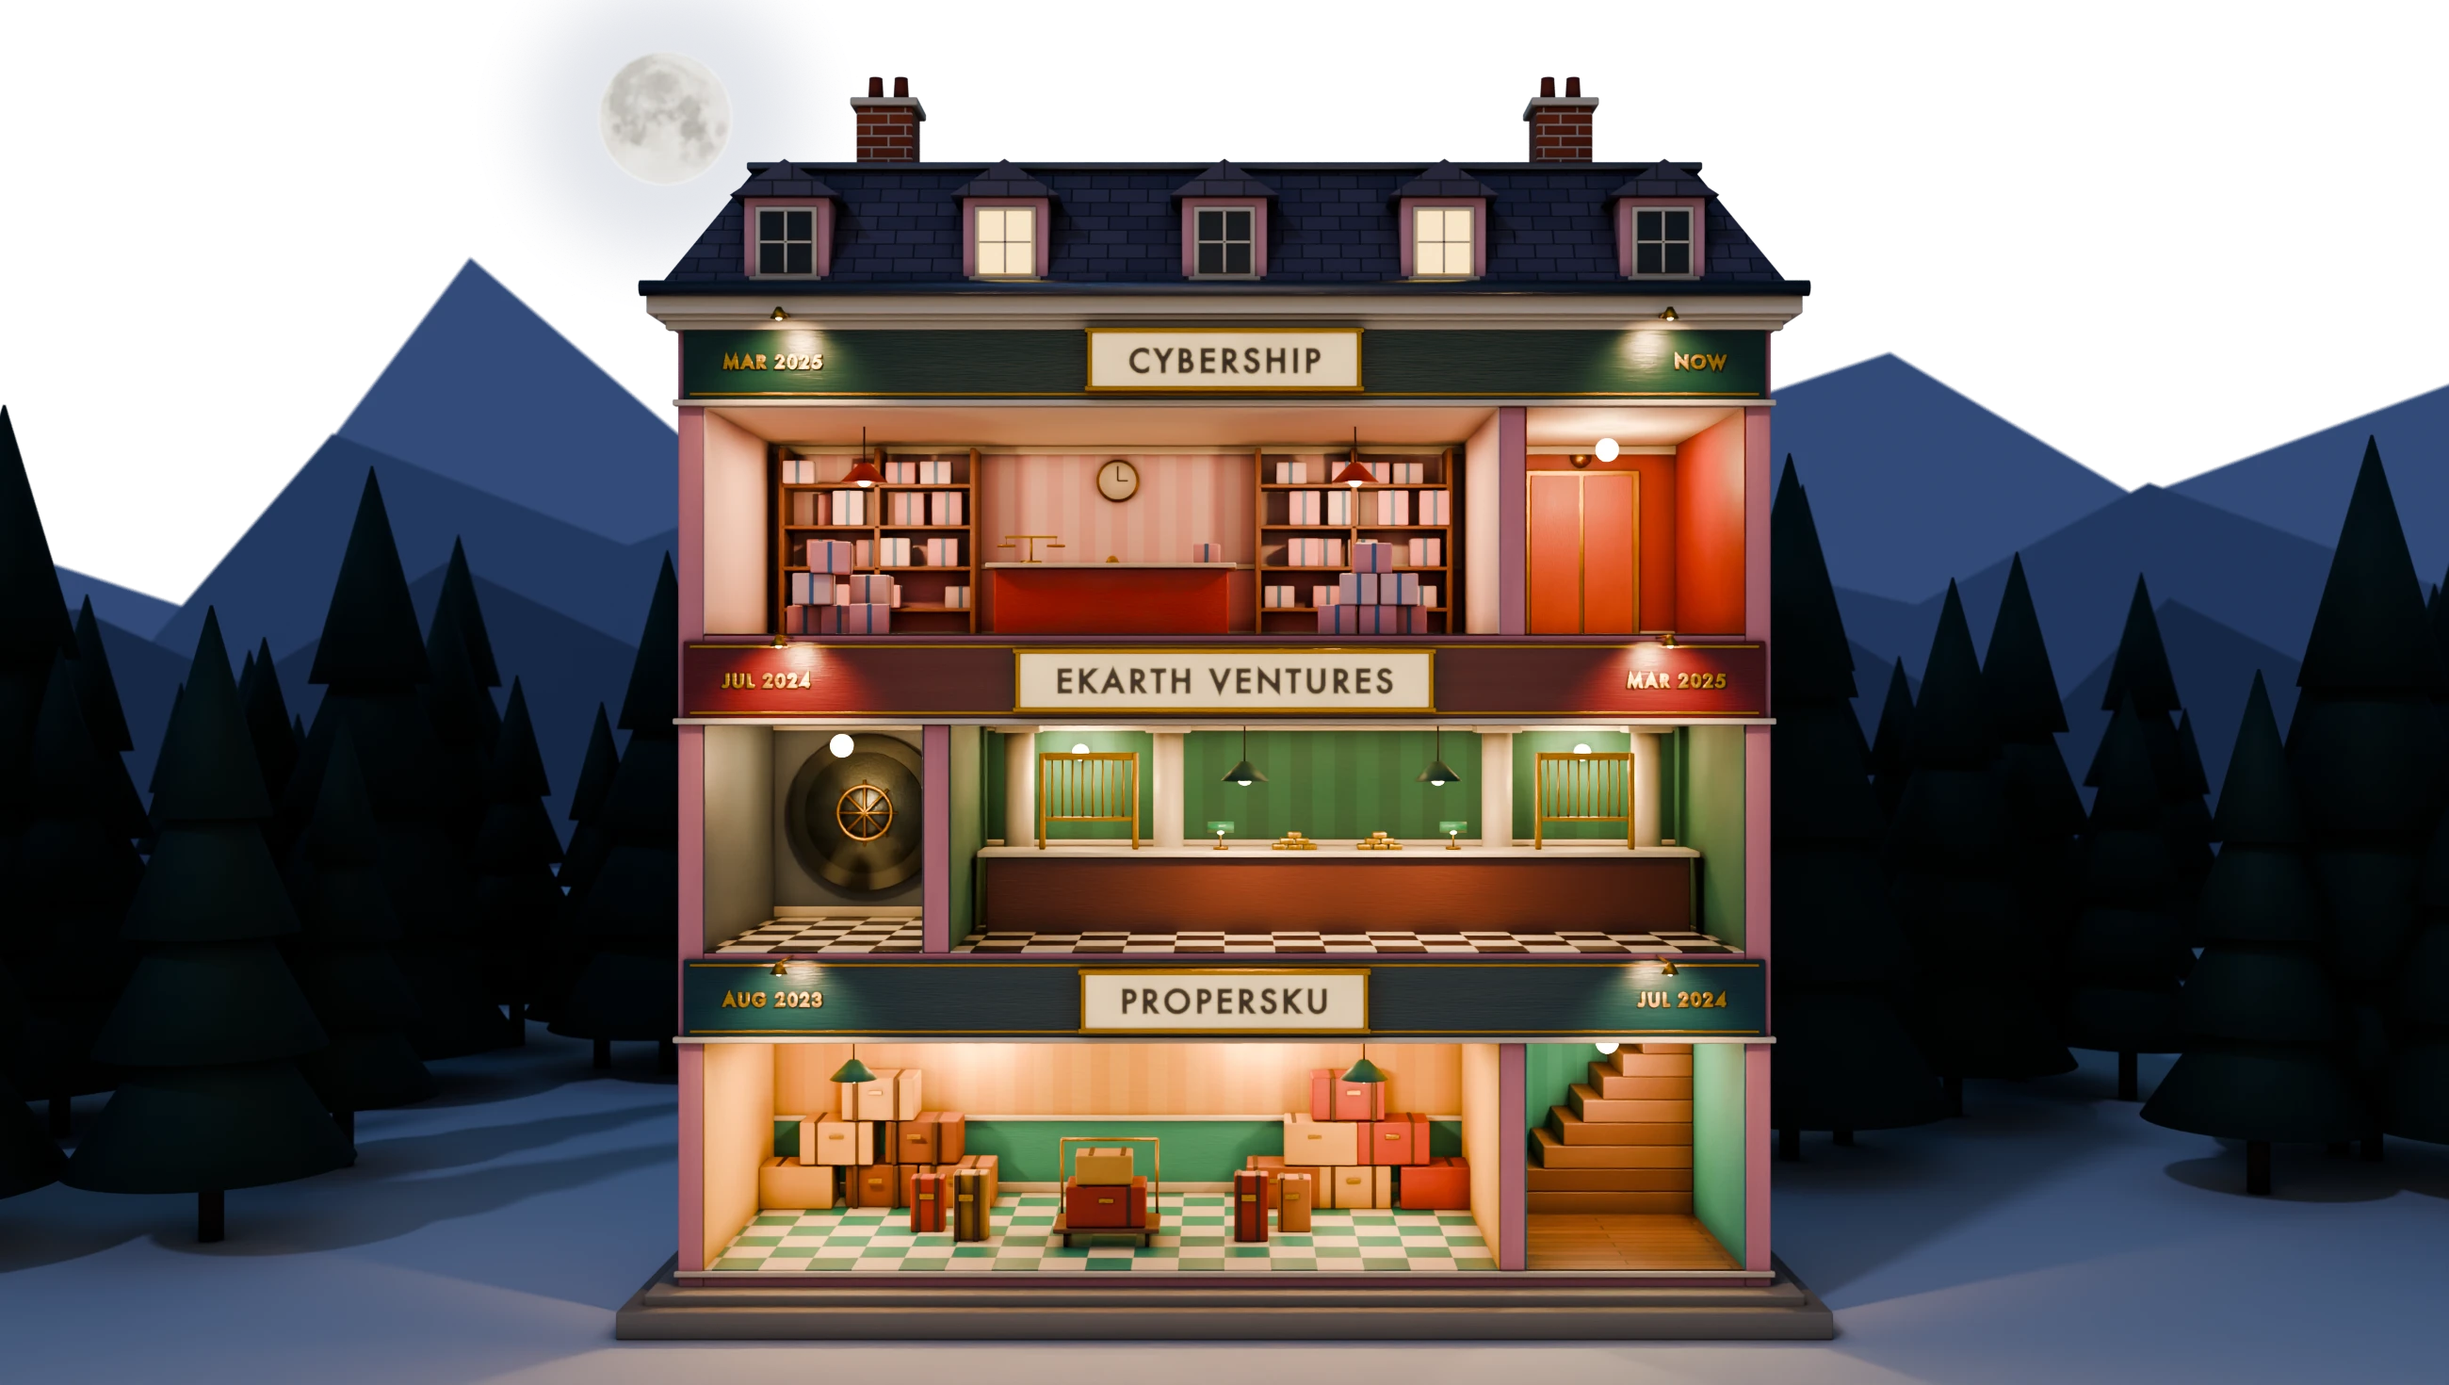
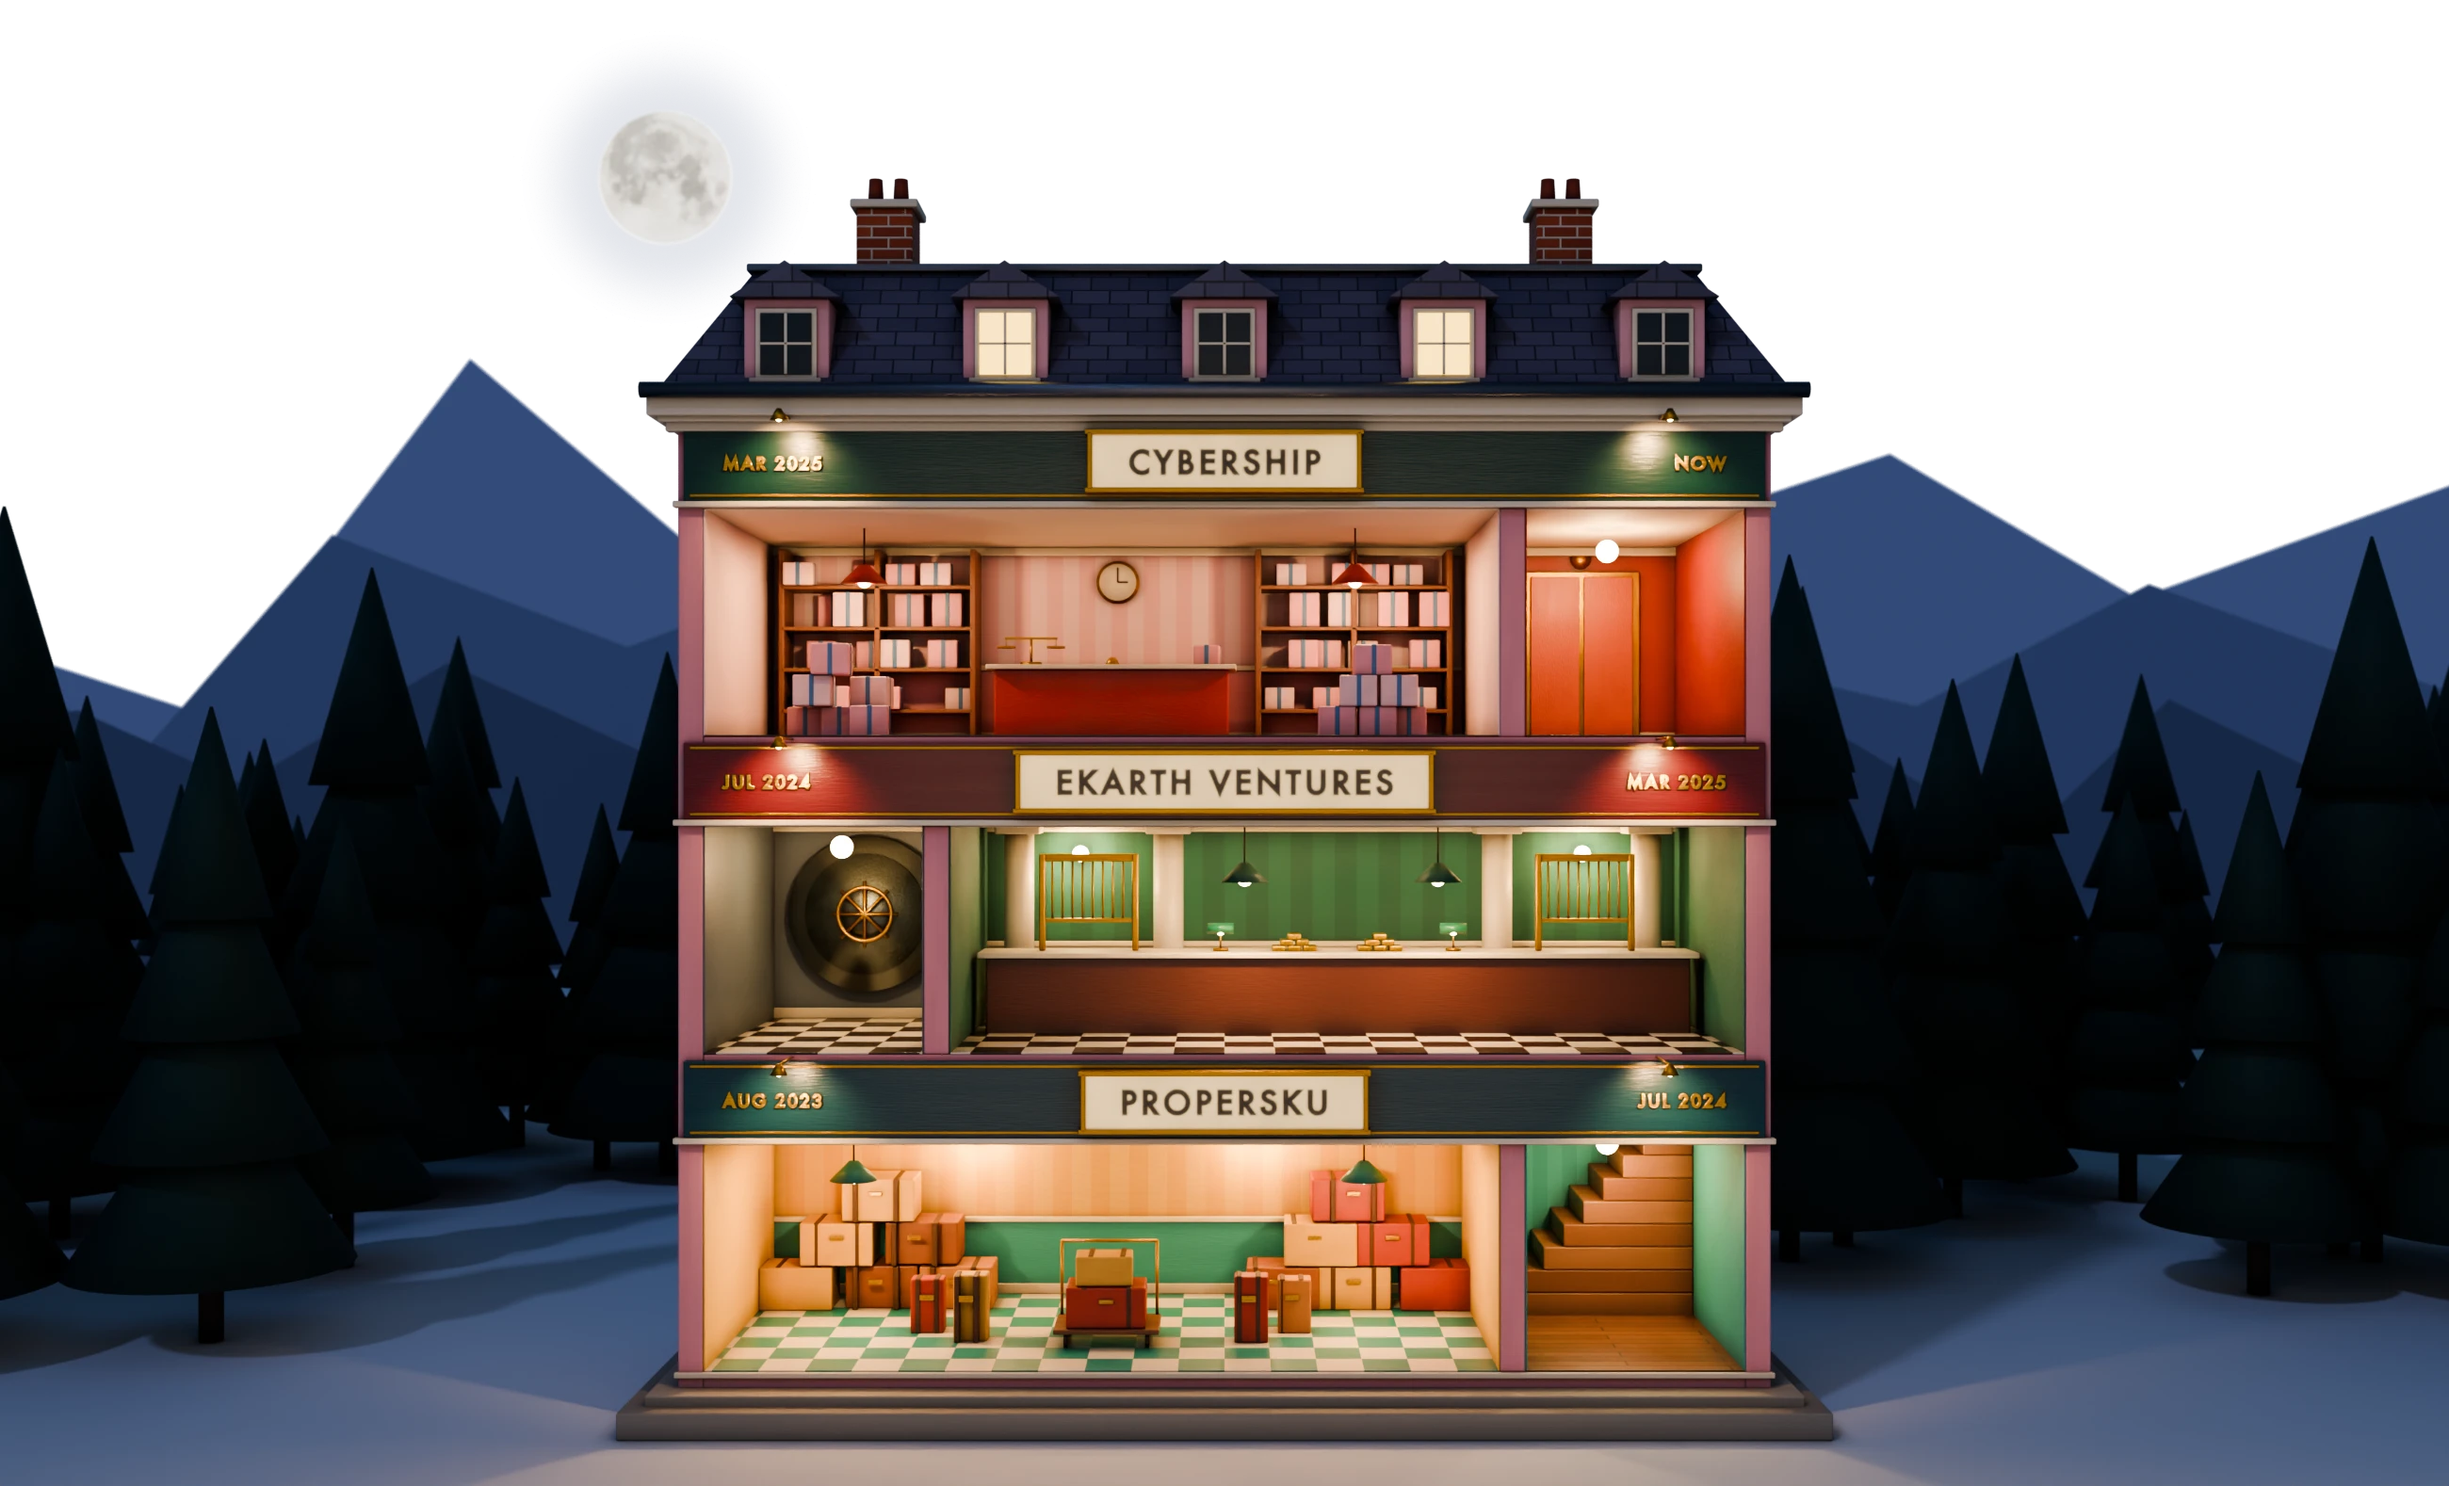
fix: keep the moon's glow inside the picture, and hang it higher
The glow reached past the top of the frame, which showed as a line across it. The page's picture
has more sky over it now, the moon stands higher in that, and its glow is gone before any edge.

diff --git a/src/components/Dollhouse.tsx b/src/components/Dollhouse.tsx
@@ -10,7 +10,7 @@ type DollhouseProps = {
 
 /** The render's size in pixels. */
 const WIDTH = 2600
-const HEIGHT = 1470
+const HEIGHT = 1578
 
 /**
  * The building (studio/dollhouse.py): a model of a house cut open at the front, standing at night in the
@@ -57,7 +57,7 @@ export function Dollhouse({ roles }: DollhouseProps) {
         width={WIDTH}
         height={HEIGHT}
         draggable={false}
-        className="relative left-1/2 -mt-[8cqw] block h-auto w-[187cqw] max-w-none origin-bottom -translate-x-1/2 select-none md:-mt-[min(8cqw,6.4vh)] md:w-[min(187cqw,150vh)]"
+        className="relative left-1/2 -mt-[15.8cqw] block h-auto w-[187cqw] max-w-none origin-bottom -translate-x-1/2 select-none md:-mt-[min(15.8cqw,12.6vh)] md:w-[min(187cqw,150vh)]"
       />
       <ol className="sr-only">
         {roles.map((role) => (

diff --git a/studio/dollhouse.py b/studio/dollhouse.py
@@ -660,6 +660,8 @@ def backdrop(distance, colour, low, high, step, seed):
 backdrop(150, "#3d4870", 24, 44, 26, 3)
 backdrop(105, "#2f395d", 16, 29, 17, 5)
 backdrop(70, "#222a48", 9, 17, 9, 8)
+# The page's picture has this much more sky over FRAME_H, for the moon and its glow to stand in.
+PAGE_SKY = 1.2
 # The camera, which looks level from this height. The tall frame is the same view with the lens shifted up.
 # The page grows its picture out of the strip's by these measures, which src/components/house.ts repeats.
 EYE, AWAY = FRAME_H / 2 - 1.05, 27
@@ -676,11 +678,12 @@ def sky(across, up, depth):
     return (across * grows, depth, EYE + (up - EYE) * grows), grows
 
 
-def moon(across, up, size):
+def moon(across, up, size, reach=3.2):
     """The moon, at this place in the frame and this big: a photograph of the full moon (studio/assets/
     moon.png) on a disc turned to the camera, shining of itself. A ball this far off the lens's axis would
     be drawn out into an egg, and the photograph is already of a ball. Round it is the glow it makes in
-    the air."""
+    the air, which is gone by reach times the moon's radius: that has to fall inside the frame, or the
+    frame's edge shows as a line across it."""
     place, grows = sky(across, up, 170)
     radius = size * grows
     disc = bpy.data.materials.new("moon")
@@ -707,18 +710,18 @@ def moon(across, up, size):
     where, away, thin = nodes.new("ShaderNodeTexCoord"), nodes.new("ShaderNodeVectorMath"), nodes.new("ShaderNodeMapRange")
     away.operation = "LENGTH"
     thin.interpolation_type = "SMOOTHERSTEP"
-    thin.inputs["From Min"].default_value, thin.inputs["From Max"].default_value = radius * 0.85, radius * 3.2
+    thin.inputs["From Min"].default_value, thin.inputs["From Max"].default_value = radius * 0.85, radius * reach
     thin.inputs["To Min"].default_value, thin.inputs["To Max"].default_value = 0.3, 0
     links.new(where.outputs["Object"], away.inputs[0])
     links.new(away.outputs["Value"], thin.inputs["Value"])
     links.new(thin.outputs["Result"], shader.inputs["Alpha"])
-    bpy.ops.mesh.primitive_circle_add(radius=radius * 3.3, fill_type="NGON", vertices=96, location=(place[0], place[1] + 0.5, place[2]), rotation=(math.pi / 2, 0, 0))
+    bpy.ops.mesh.primitive_circle_add(radius=radius * (reach + 0.1), fill_type="NGON", vertices=96, location=(place[0], place[1] + 0.5, place[2]), rotation=(math.pi / 2, 0, 0))
     bpy.context.object.data.materials.append(halo)
 
 
 # On the page it is rising clear of the roof's left shoulder. On the strip it rides high over the house.
 if not STRIP:
-    moon(-6.6, FRAME_H - 2.45, 0.78)
+    moon(-6.6, FRAME_H - 1.95, 0.78, reach=2.4)
 if STRIP:
     moon(-1.3, STRIP_FOOT + STRIP_H * 0.64, 2.0)
     heavens, star = random.Random(21), paint("#f4f1e4", glow=5)
@@ -753,7 +756,7 @@ scene.world = world
 
 # A long lens from well back and square on, so the rooms keep their depth and nothing leans.
 distance = AWAY
-wide, tall = (STRIP_W, STRIP_H) if STRIP else (FRAME_W, FRAME_H)
+wide, tall = (STRIP_W, STRIP_H) if STRIP else (FRAME_W, FRAME_H + PAGE_SKY)
 bpy.ops.object.camera_add(location=(0, -distance, EYE), rotation=(math.pi / 2, 0, 0))
 scene.camera = bpy.context.object
 scene.camera.data.sensor_width = 36
